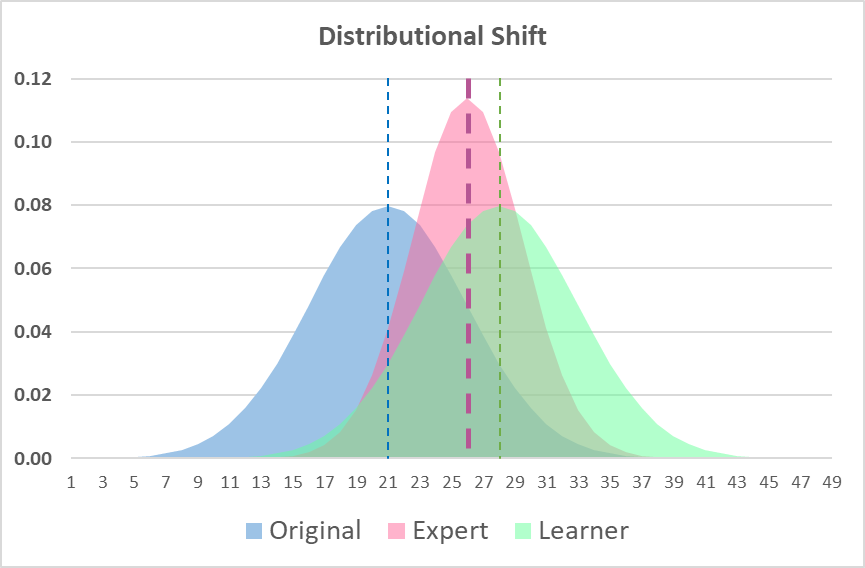
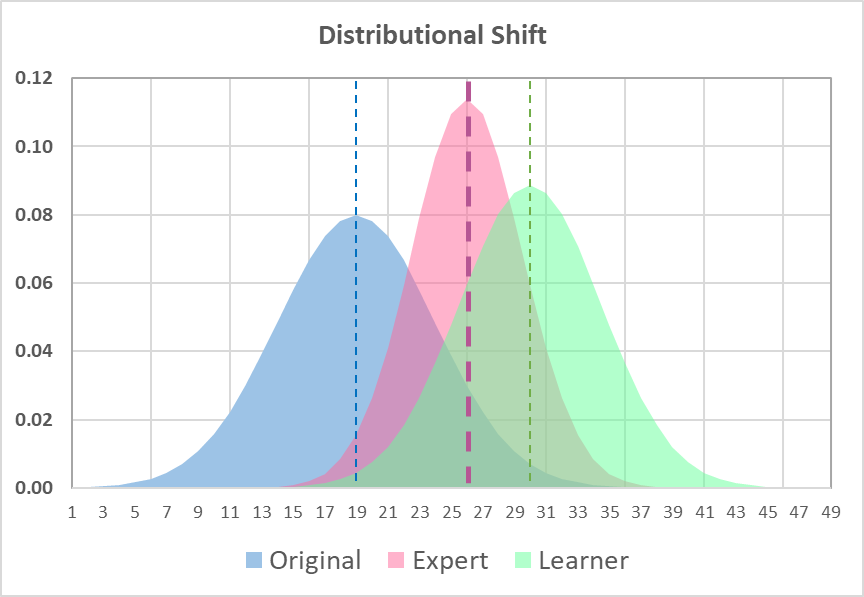
Article updates - DAgger started

diff --git a/Article/IRL_PdM_Article_V_5_2_1.tex b/Article/IRL_PdM_Article_V_5_2_1.tex
@@ -1,4 +1,4 @@
-%% MOHOPADA-H-PC work 10:37am
+%% MOHOPADA-H-PC work 09-Sep 10:00am
 %% NOTES: Stanford lecs used capital Xi \Xi for demonstrations, I've used \mathcal{D} 
 %% Transfered from H-PC MOHOPADA 08-Sep. 10:20 am
 
@@ -197,16 +197,57 @@ In simple terms the BC algorithm \citep{yue2018imitation}:
 
 As laid out in figure \ref{fig:BC}, the learning processes depends solely on the set of demonstrations provided by the expert. It is often difficult for the experts to cover the entire state space, if they do not uniformly sample the state space or provide samples according to convenience.
 
-In an industrial maintenance situation this could happen, if for example, the expert picks a certain time of day and a short time period within the entire span of equipment or tool life to provide the demonstrations $\mathcal{D}$.  This will result in a \textit{temporal sequence} of states and actions with a particular distribution. The learned policy will then perform poorly when faced with states not present in $\mathcal{D}$. Behavioral cloning will then \textit{estimate} the policy ${\hat{\pi}}^*$ with its own slightly different distribution of states and these states  that will be visited. The algorithm then begins to drift at every step of learning, leading to compounding errors. This is a major challenge in imitation learning, \citep{yue2018imitation, stanford-lectures}. \textcolor{red}{PLACEMENT -- the importance of randomly sampling and non sequential examples - also PROVIDE DIAGRAM!} 
-
-
-
-\begin{figure}
-\centering
-\includegraphics[width=0.6\linewidth]{images/DistributionalShift.png}
-\caption{Distributional mismatch}
-\label{fig:BCprob}
+\begin{figure}[H]
+	\centering
+	\includegraphics[width=0.6\linewidth]{images/DistributionalShift.png}
+	\caption{Distributional mismatch}
+	\label{fig:DistribShift}
 \end{figure}
+
+In an industrial maintenance situation this could happen, if for example, the expert picks a certain time of day and a short time period within the entire span of equipment or tool life to provide the demonstrations $\mathcal{D}$.  This will result in a \textit{temporal sequence} of states and actions with a particular distribution. The learned policy will then perform poorly when faced with states not present in $\mathcal{D}$. Behavioral cloning will then \textit{estimate} the policy ${\hat{\pi}}^*$ with its own slightly different distribution of states and these states  that will be visited. The algorithm then begins to drift at every step of learning, leading to compounding errors. This ``distributional shift'', Fig. \ref{fig:DistribShift}, is a major challenge in imitation learning, \citep{yue2018imitation, stanford-lectures}. \textcolor{red}{PLACEMENT -- the importance of randomly sampling and non sequential examples - also PROVIDE DIAGRAM!} 
+
+\cite{Dagger-Ross2010} overcame this core limitation of distributional mismatch in states, by devising the DAgger (Dataset Aggregation) algorithm. It augments existing demonstrations with new expert data when the learned policy ${\hat{\pi}}^*$ leads to states that are not present in the expert dataset $\mathcal{D}$, the expert is queried for more data. 
+
+\begin{algorithm}\label{algorithm:DAgger}
+	\onehalfspacing
+	\caption{DAgger Dataset Aggregation algorithm, \cite{stanford-lectures}} 
+	\begin{algorithmic}[1]
+		\State {Data: $\pi^*$}
+		\State {Result: $\hat{\pi}^*$}
+		\State {Initialize $\mathcal{D} \leftarrow 0$}
+		\State {Initialize $\hat{\pi}$}
+		\For {i=1 to N}
+			\State {$\pi_i = \beta_i \pi^* + (1 - \beta_i) \hat{\pi}$}
+			\State {Rollout policy $\pi_i$ to sample trajectory $\tau = \{s_0, s_1, ..., s_T\}$ }
+			\State {Query expert $\pi^*$ and generate dataset $\mathcal{D}_i = \{(s_0, \pi^*(s_0)), (s_1, \pi^*(s_1)), ..., (s_T, \pi^*(s_T))\}$}
+			\State {Aggregate datasets: $\mathcal{D} \leftarrow \mathcal{D} \cup \mathcal{D}_i $}
+			\State {Retrain policy $\hat{\pi}$ using aggregated dataset $\mathcal{D}$}
+		\EndFor
+		\State {Return $\hat{\pi}$}
+	\end{algorithmic} 
+\end{algorithm}
+
+\textcolor{red}{From ROSS: In other words, DAGGER proceeds by collecting a dataset 	at each iteration under the current policy and trains the next 	policy under the aggregate of all collected datasets. The intuition 	behind this algorithm is that over the iterations, we 	are building up the set of inputs that the learned policy is 	likely to encounter during its execution based on previous experience (training iterations).}
+
+Notation: $\Pi$ is the set of policies the learner is considering and $T$ the time horizon of the task.
+
+\begin{algorithm}\label{algorithm:DAgger-Ross}
+	\onehalfspacing
+	\caption{DAgger Dataset Aggregation algorithm, \cite{Dagger-Ross2010}} 
+	\begin{algorithmic}[1]
+		\State {Initialize $\mathcal{D} \leftarrow \emptyset$}
+		\State {Initialize $\hat{\pi}_1$ to any policy in $\Pi$}
+		\For {i=1 to N}
+			\State {Let $\pi_i = \beta_i \pi^* + (1 - \beta_i) \hat{\pi}_i$}
+			\State {Sample $T$-step trajectories using $\pi_i$}
+			\State {Get dataset $\mathcal{D}_i = \{(s, \pi^*(s))\}$ of visited states by $\pi_i$}
+			\State {and actions given by expert}
+			\State {Aggregate datasets: $\mathcal{D} \leftarrow \mathcal{D} \cup \mathcal{D}_i$}
+			\State {Train policy $\hat{\pi}_{i+1}$ on $\mathcal{D}$}
+		\EndFor
+		\State {Return best $\hat{\pi}_i$ on validation.}
+	\end{algorithmic} 
+\end{algorithm}
 
 % $$$ Additional content from YUE and LE 2018 -- \citep{yue2018imitation}
 %
@@ -344,6 +385,7 @@ The inverse reinforcement learning (IRL) problem is formally stated as follows \
 \item DAGGER original \href{https://www.ri.cmu.edu/pub_files/2011/4/Ross-AISTATS11-NoRegret.pdf}{article} and algo
 \end{enumerate}
 
+\textcolor{red}{FROM MEDIUM ARTICLE:}\href{https://smartlabai.medium.com/a-brief-overview-of-imitation-learning-8a8a75c44a9c}{smartlabai}.
 
 Behavioural Cloning
 The simplest form of imitation learning is behaviour cloning (BC), which focuses on learning the expert’s policy using supervised learning. An important example of behaviour cloning is ALVINN, a vehicle equipped with sensors, which learned to map the sensor inputs into steering angles and drive autonomously. This project was carried out in 1989 by Dean Pomerleau, and it was also the first application of imitation learning in general.
@@ -371,34 +413,6 @@ The full algorithm is the following:
 
 
 
-\begin{algorithm}
-\onehalfspacing
-\caption{DAgger} 
-\begin{algorithmic}[1]
-	\State {Initialize $\mathcal{D} \leftarrow \theta$}
-	\State {Initialize $\hat{\pi}_{1}$ to any policy in $\Pi$}
-	\For {i=1 to N}
-	\State {Let $\pi_i = \beta_i \pi^* + (1 - \beta_i) \hat{\pi}_{i}$}
-	\State {Sample T-step trajectories using $\pi_i$}
-	\State {Get dataset $\mathcal{D}_i = \{(s, \pi^*(s))\}$ of visited states by $\pi_i$}
-	and actions given by expert.
-	\State {Aggregate datasets: $\mathcal{D}$}\\
-	\EndFor 
-\end{algorithmic} 
-\end{algorithm}
-
-\begin{algorithm}
-\caption{Behavioral cloning algorithm}\label{algo:BC}
-\begin{algorithmic}[1]
-	\Initialize {model $\mathcal{M}_\theta$ as a random approximator}\\
-	Set {$\pi_\phi$ to be a random policy}\\
-	Set {$I = |\mathcal{I}^{pre}| $}
-	% \While{policy improvement} \Do
-	%     \For {time-step $t=1$ to $I$ \do 
-		
-		% \EndWhile
-	\end{algorithmic}
-\end{algorithm}
 
 
 \section{TO-DO}
